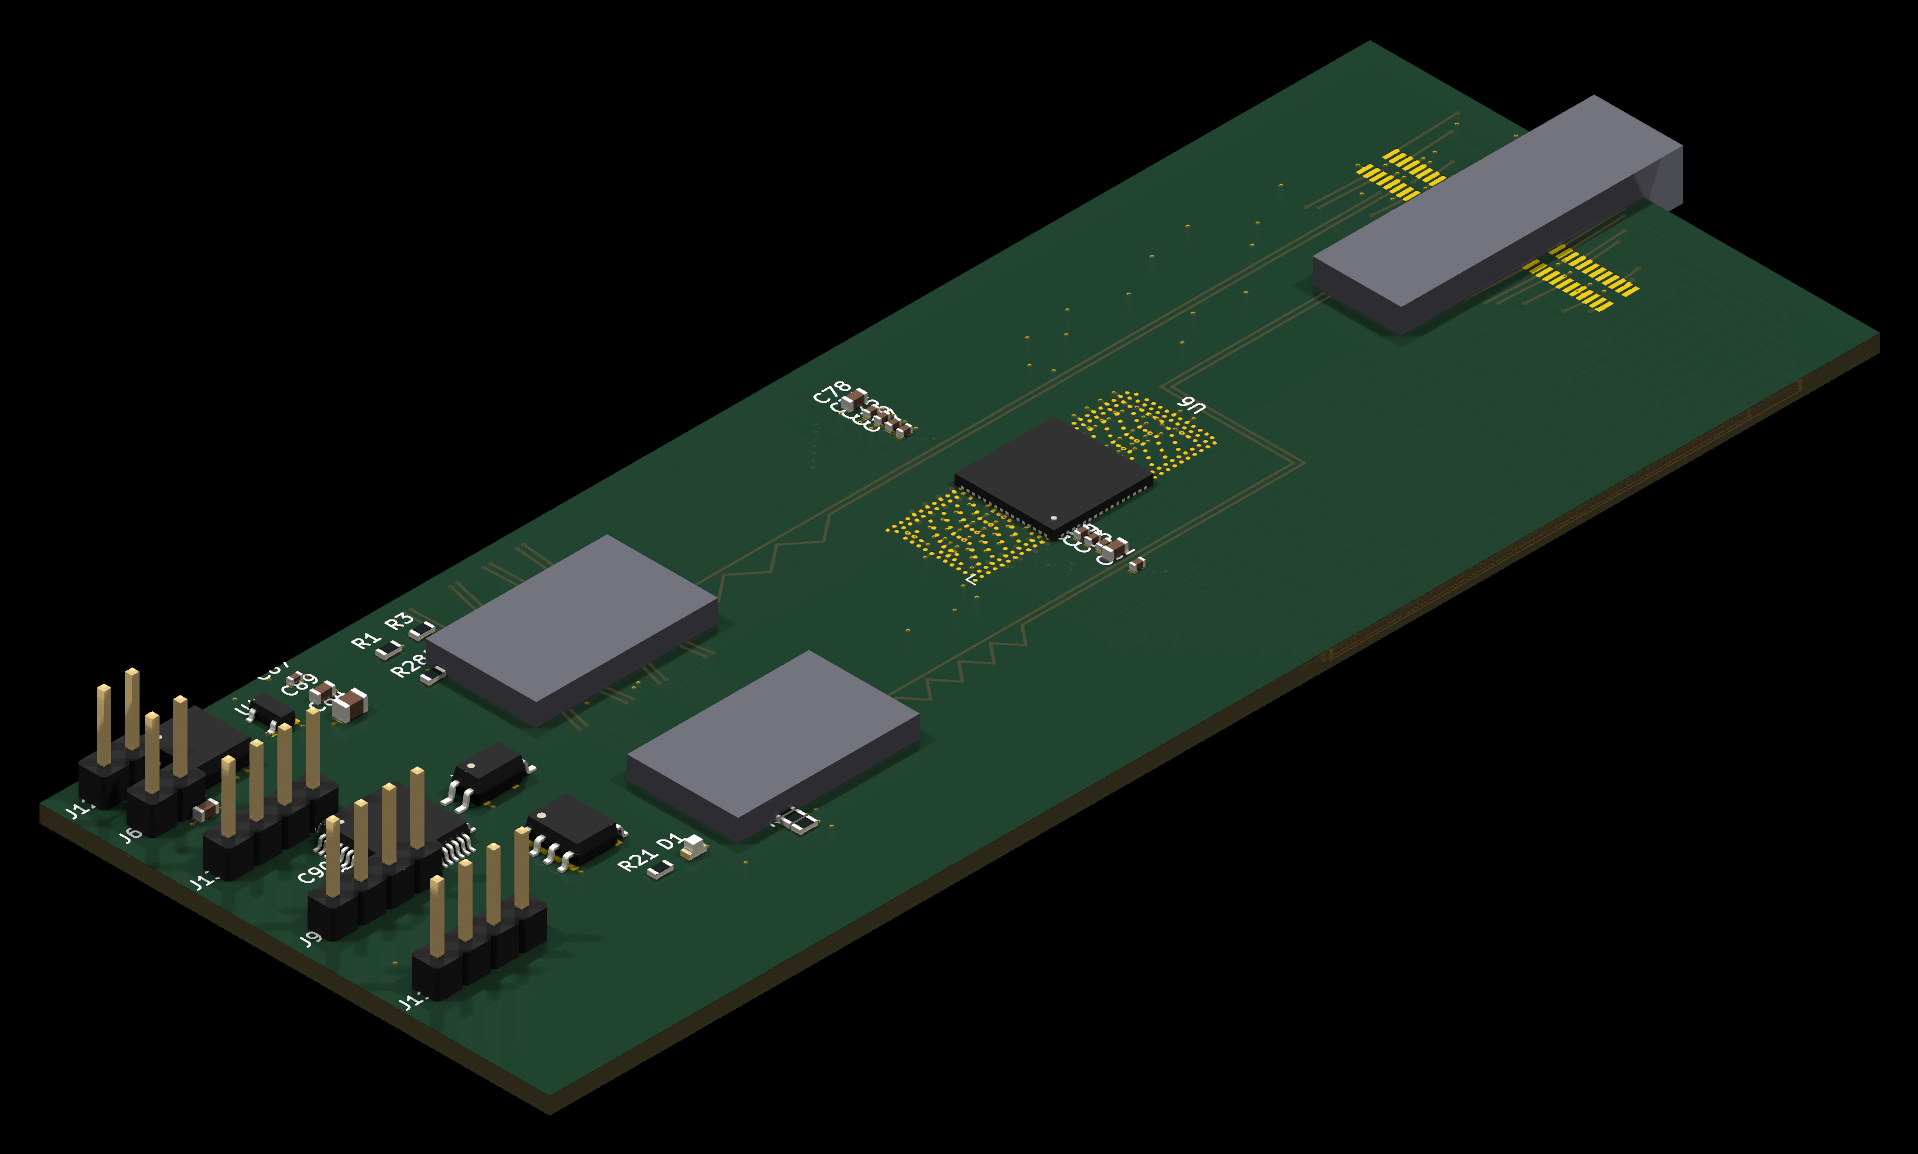
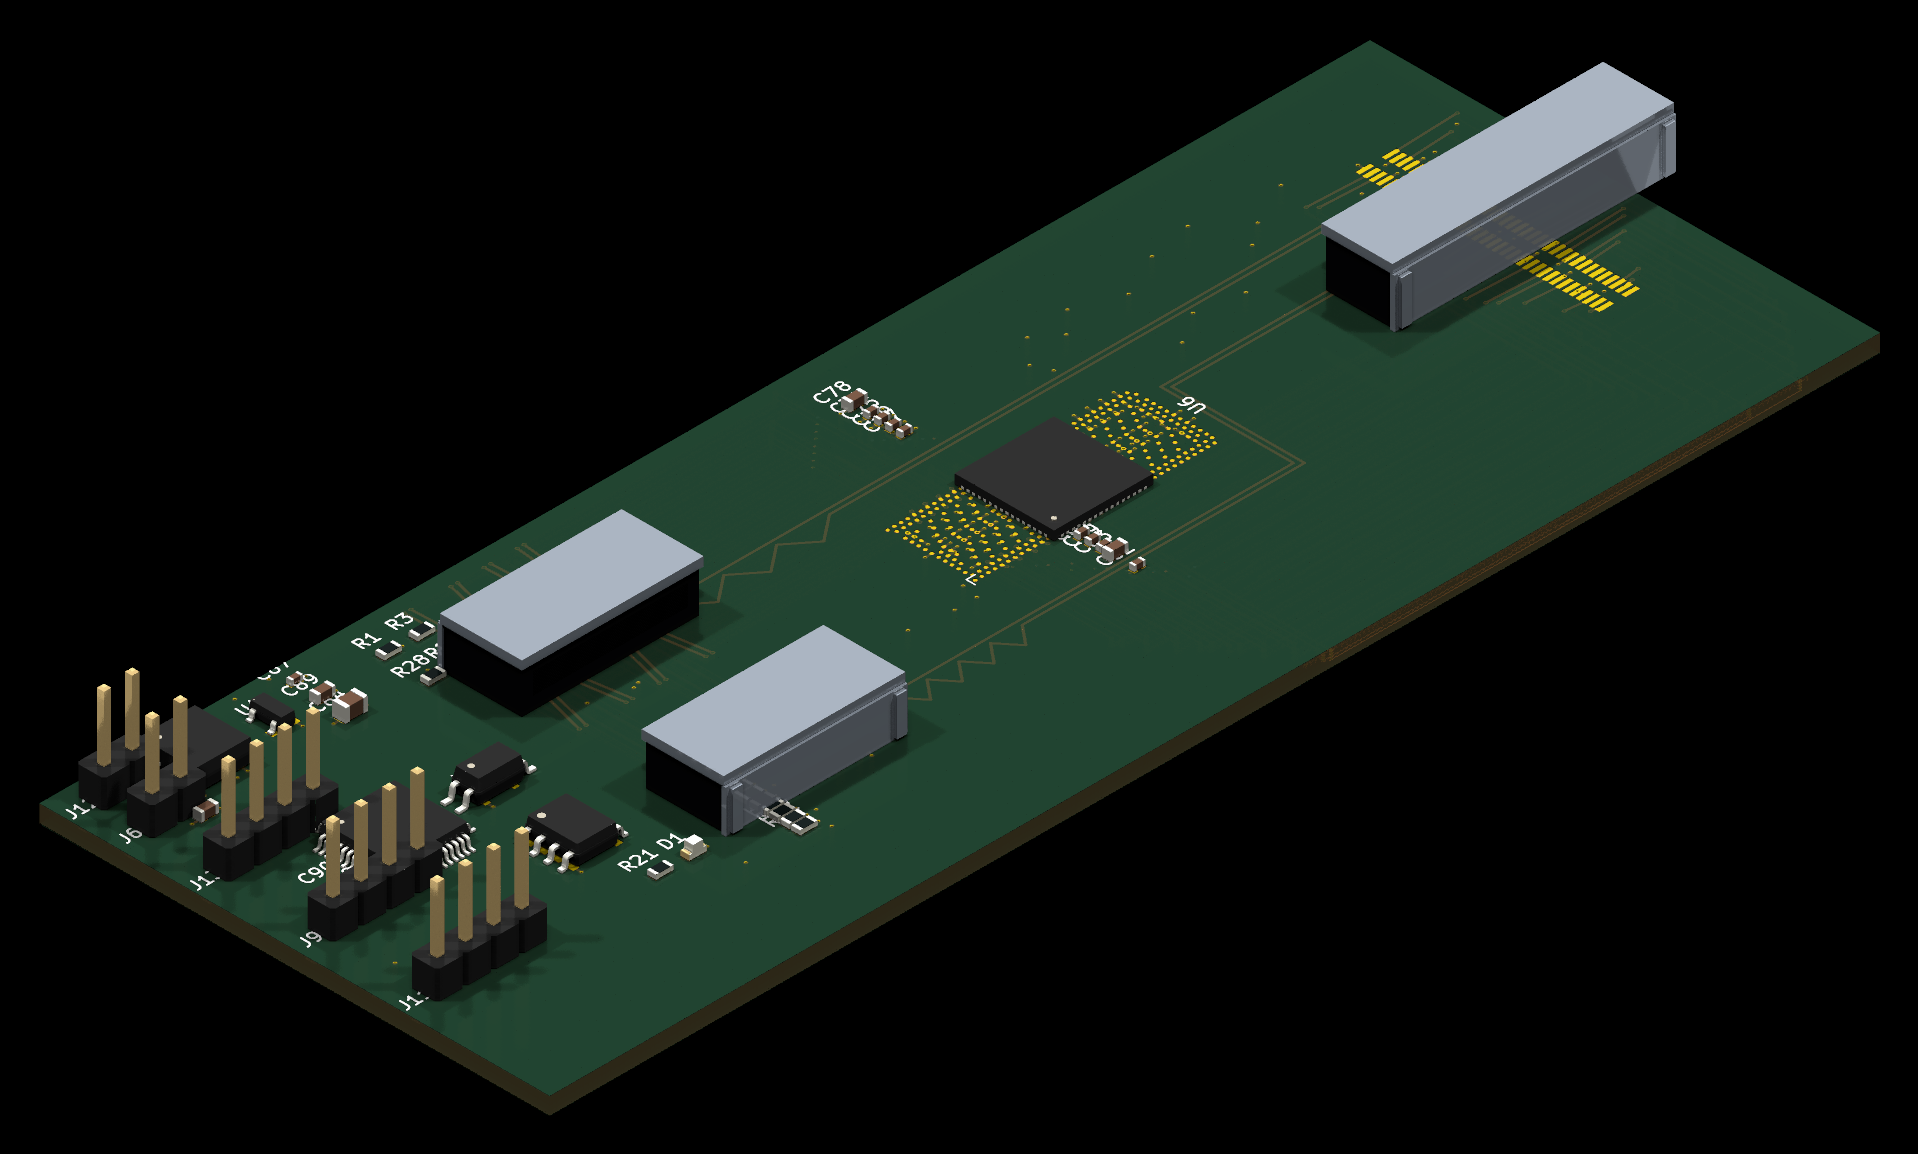
docs(k2): 3D 渲染完成 — MCIO/SlimSAS 连接器自建模型（按封装几何），附渲染脚本

Changed region(s): [[0.6767, 0.0624, 0.8921, 0.2808], [0.3076, 0.5303, 0.4922, 0.7175], [0.2153, 0.4367, 0.3691, 0.6239]]

diff --git a/tools/k2_render_3d.py b/tools/k2_render_3d.py
@@ -1,0 +1,136 @@
+#!/usr/bin/env python3
+import os
+import re
+
+K2 = "/home/fila/jqdDev_2025/ic_hw/k2"
+MDL = "/home/fila/jqdDev_2025/ic_hw/AppDir/share/kicad/3dmodels"
+WORK = "/tmp/opencode/k2render"
+
+STEP = {
+    "Capacitor_SMD:C_0402_1005Metric": "Capacitor_SMD.3dshapes/C_0402_1005Metric.step",
+    "Capacitor_SMD:C_0603_1608Metric": "Capacitor_SMD.3dshapes/C_0603_1608Metric.step",
+    "Capacitor_SMD:C_0805_2012Metric": "Capacitor_SMD.3dshapes/C_0805_2012Metric.step",
+    "Resistor_SMD:R_0603_1608Metric": "Resistor_SMD.3dshapes/R_0603_1608Metric.step",
+    "LED_SMD:LED_0603_1608Metric": "LED_SMD.3dshapes/LED_0603_1608Metric.step",
+    "Package_SO:SOIC-8_5.3x5.3mm_P1.27mm": "Package_SO.3dshapes/SOIC-8_5.3x5.3mm_P1.27mm.step",
+    "ForgeOS:PinHeader_1x02": "Connector_PinHeader_2.54mm.3dshapes/PinHeader_1x02_P2.54mm_Vertical.step",
+    "ForgeOS:PinHeader_1x04": "Connector_PinHeader_2.54mm.3dshapes/PinHeader_1x04_P2.54mm_Vertical.step",
+    "ForgeOS:SOT23_BAT54C": "Package_TO_SOT_SMD.3dshapes/SOT-23.step",
+    "ForgeOS:SOIC8_FRU": "Package_SO.3dshapes/SOIC-8_3.9x4.9mm_P1.27mm.step",
+    "ForgeOS:OPTO_LTV356T": "Package_SO.3dshapes/SOP-4_4.4x2.6mm_P1.27mm.step",
+    "ForgeOS:MCU_STM32G0_LQFP48": "Package_QFP.3dshapes/LQFP-48_7x7mm_P0.5mm.step",
+    "DS320PR1601": "Package_DFN_QFN.3dshapes/QFN-64-1EP_9x9mm_P0.5mm_EP4.1x4.1mm.step",
+}
+
+PLASTIC = "0.07 0.07 0.08"
+SHELL = "0.52 0.55 0.59"
+
+CONN = {
+    "ForgeOS:MCIO_4i_SFF-1016_RASide": dict(w=16.0, d=7.0, h=4.6, shell_t=0.8),
+    "ForgeOS:SlimSAS_x8_SFF-8654_74pin_RASide": dict(w=25.0, d=6.0, h=5.2, shell_t=0.8),
+}
+
+U = 2.54
+
+
+def _t(cx, cy, cz, sx, sy, sz, color, shin=0.15):
+    return (
+        "Transform { translation %g %g %g children [ Shape { appearance Appearance {"
+        " material Material { diffuseColor %s specularColor 0.45 0.45 0.45 shininess %g } }"
+        " geometry Box { size %g %g %g } } ] }\n"
+        % (cx / U, cy / U, cz / U, color, shin, sx / U, sy / U, sz / U)
+    )
+
+
+def connector_wrl(w, d, h, shell_t):
+    body_h = h - shell_t
+    out = ["#VRML V2.0 utf8\n"]
+    out.append(_t(0, 0, body_h / 2, w, d, body_h, PLASTIC))
+    out.append(_t(0, 0, h - shell_t / 2, w + 0.4, d + 0.4, shell_t, SHELL, 0.6))
+    out.append(_t(0, -(d / 2) - 0.2, body_h / 2, w + 0.4, 0.4, body_h, SHELL, 0.6))
+    out.append(_t(0, d / 2 - 0.55, body_h * 0.55, w - 2.0, 1.1, body_h * 0.5, "0.03 0.03 0.03"))
+    for sx in (-1, 1):
+        out.append(_t(sx * (w / 2 - 0.6), -(d / 2) - 0.35, body_h * 0.5, 0.9, 0.7, body_h * 0.9, SHELL, 0.6))
+    return "".join(out)
+
+
+def find_close(text, start):
+    depth = 0
+    i = start
+    while i < len(text):
+        ch = text[i]
+        if ch == '"':
+            i += 1
+            while i < len(text) and text[i] != '"':
+                i += 2 if text[i] == "\\" else 1
+        elif ch == "(":
+            depth += 1
+        elif ch == ")":
+            depth -= 1
+            if depth == 0:
+                return i
+        i += 1
+    raise ValueError("unbalanced")
+
+
+def model_block(path):
+    return (
+        '\t\t(model "%s"\n'
+        "\t\t\t(offset (xyz 0 0 0))\n"
+        "\t\t\t(scale (xyz 1 1 1))\n"
+        "\t\t\t(rotate (xyz 0 0 0))\n"
+        "\t\t)\n" % path
+    )
+
+
+def main():
+    board = os.path.join(K2, "hw", "k2_v4_8L.l4.kicad_pcb")
+    boxdir = os.path.join(WORK, "conn")
+    os.makedirs(boxdir, exist_ok=True)
+    conn_files = {}
+    for libid, p in CONN.items():
+        f = os.path.join(boxdir, re.sub(r"[^A-Za-z0-9]+", "_", libid) + ".wrl")
+        open(f, "w").write(connector_wrl(**p))
+        conn_files[libid] = f
+
+    src = open(board).read()
+    out, pos, stats = [], 0, {}
+    missing = []
+    pat = re.compile(r'\t\(footprint "([^"]+)"')
+    while True:
+        m = pat.search(src, pos)
+        if not m:
+            break
+        libid = m.group(1)
+        end = find_close(src, m.start() + 1)
+        block = src[m.start():end + 1]
+        if "(model " not in block:
+            if libid in STEP:
+                path = os.path.join(MDL, STEP[libid])
+                if not os.path.exists(path):
+                    missing.append((libid, path))
+                block = block[:-1] + model_block(path) + "\t)"
+                stats[libid] = stats.get(libid, 0) + 1
+            elif libid in conn_files:
+                block = block[:-1] + model_block(conn_files[libid]) + "\t)"
+                stats[libid] = stats.get(libid, 0) + 1
+            else:
+                missing.append((libid, "无映射"))
+        out.append(src[pos:m.start()])
+        out.append(block)
+        pos = end + 1
+    out.append(src[pos:])
+    dst = os.path.join(WORK, "k2_render.kicad_pcb")
+    open(dst, "w").write("".join(out))
+
+    total = sum(stats.values())
+    print("副本 ->", dst)
+    print("注入 %d 个模型，覆盖 %d 种封装" % (total, len(stats)))
+    for k, v in sorted(stats.items(), key=lambda x: -x[1]):
+        print("  %-44s x%d" % (k, v))
+    if missing:
+        print("未映射:", missing)
+
+
+if __name__ == "__main__":
+    main()

diff --git a/README.md b/README.md
@@ -17,8 +17,8 @@ Top view of the fabrication release board (`hw/k2_v4_8L.l4.kicad_pcb`, 120 × 46
 
 ![K2 PCB — 3D render (top)](docs/images/k2_pcb_3d.png)
 
-*3D renders use KiCad stock models. The MCIO and SlimSAS connectors have no vendor
-3D models and are shown as simplified blocks.*
+*3D renders use KiCad stock models for standard packages. The MCIO (SFF-1016) and
+SlimSAS (SFF-8654) connectors have no vendor 3D models and are represented by simplified models derived from their footprint geometry.*
 
 ## Overview
 

diff --git a/README.zh-CN.md b/README.zh-CN.md
@@ -16,7 +16,7 @@
 
 ![K2 PCB — 3D 渲染（顶视）](docs/images/k2_pcb_3d.png)
 
-*3D 渲染使用 KiCad 官方模型；MCIO 与 SlimSAS 连接器无厂商 3D 模型，以简化方块代替。*
+*3D 渲染对标准封装使用 KiCad 官方模型；MCIO（SFF-1016）与 SlimSAS（SFF-8654）连接器无厂商 3D 模型，由封装几何自建的简化模型代替。*
 
 ## 概述
 
